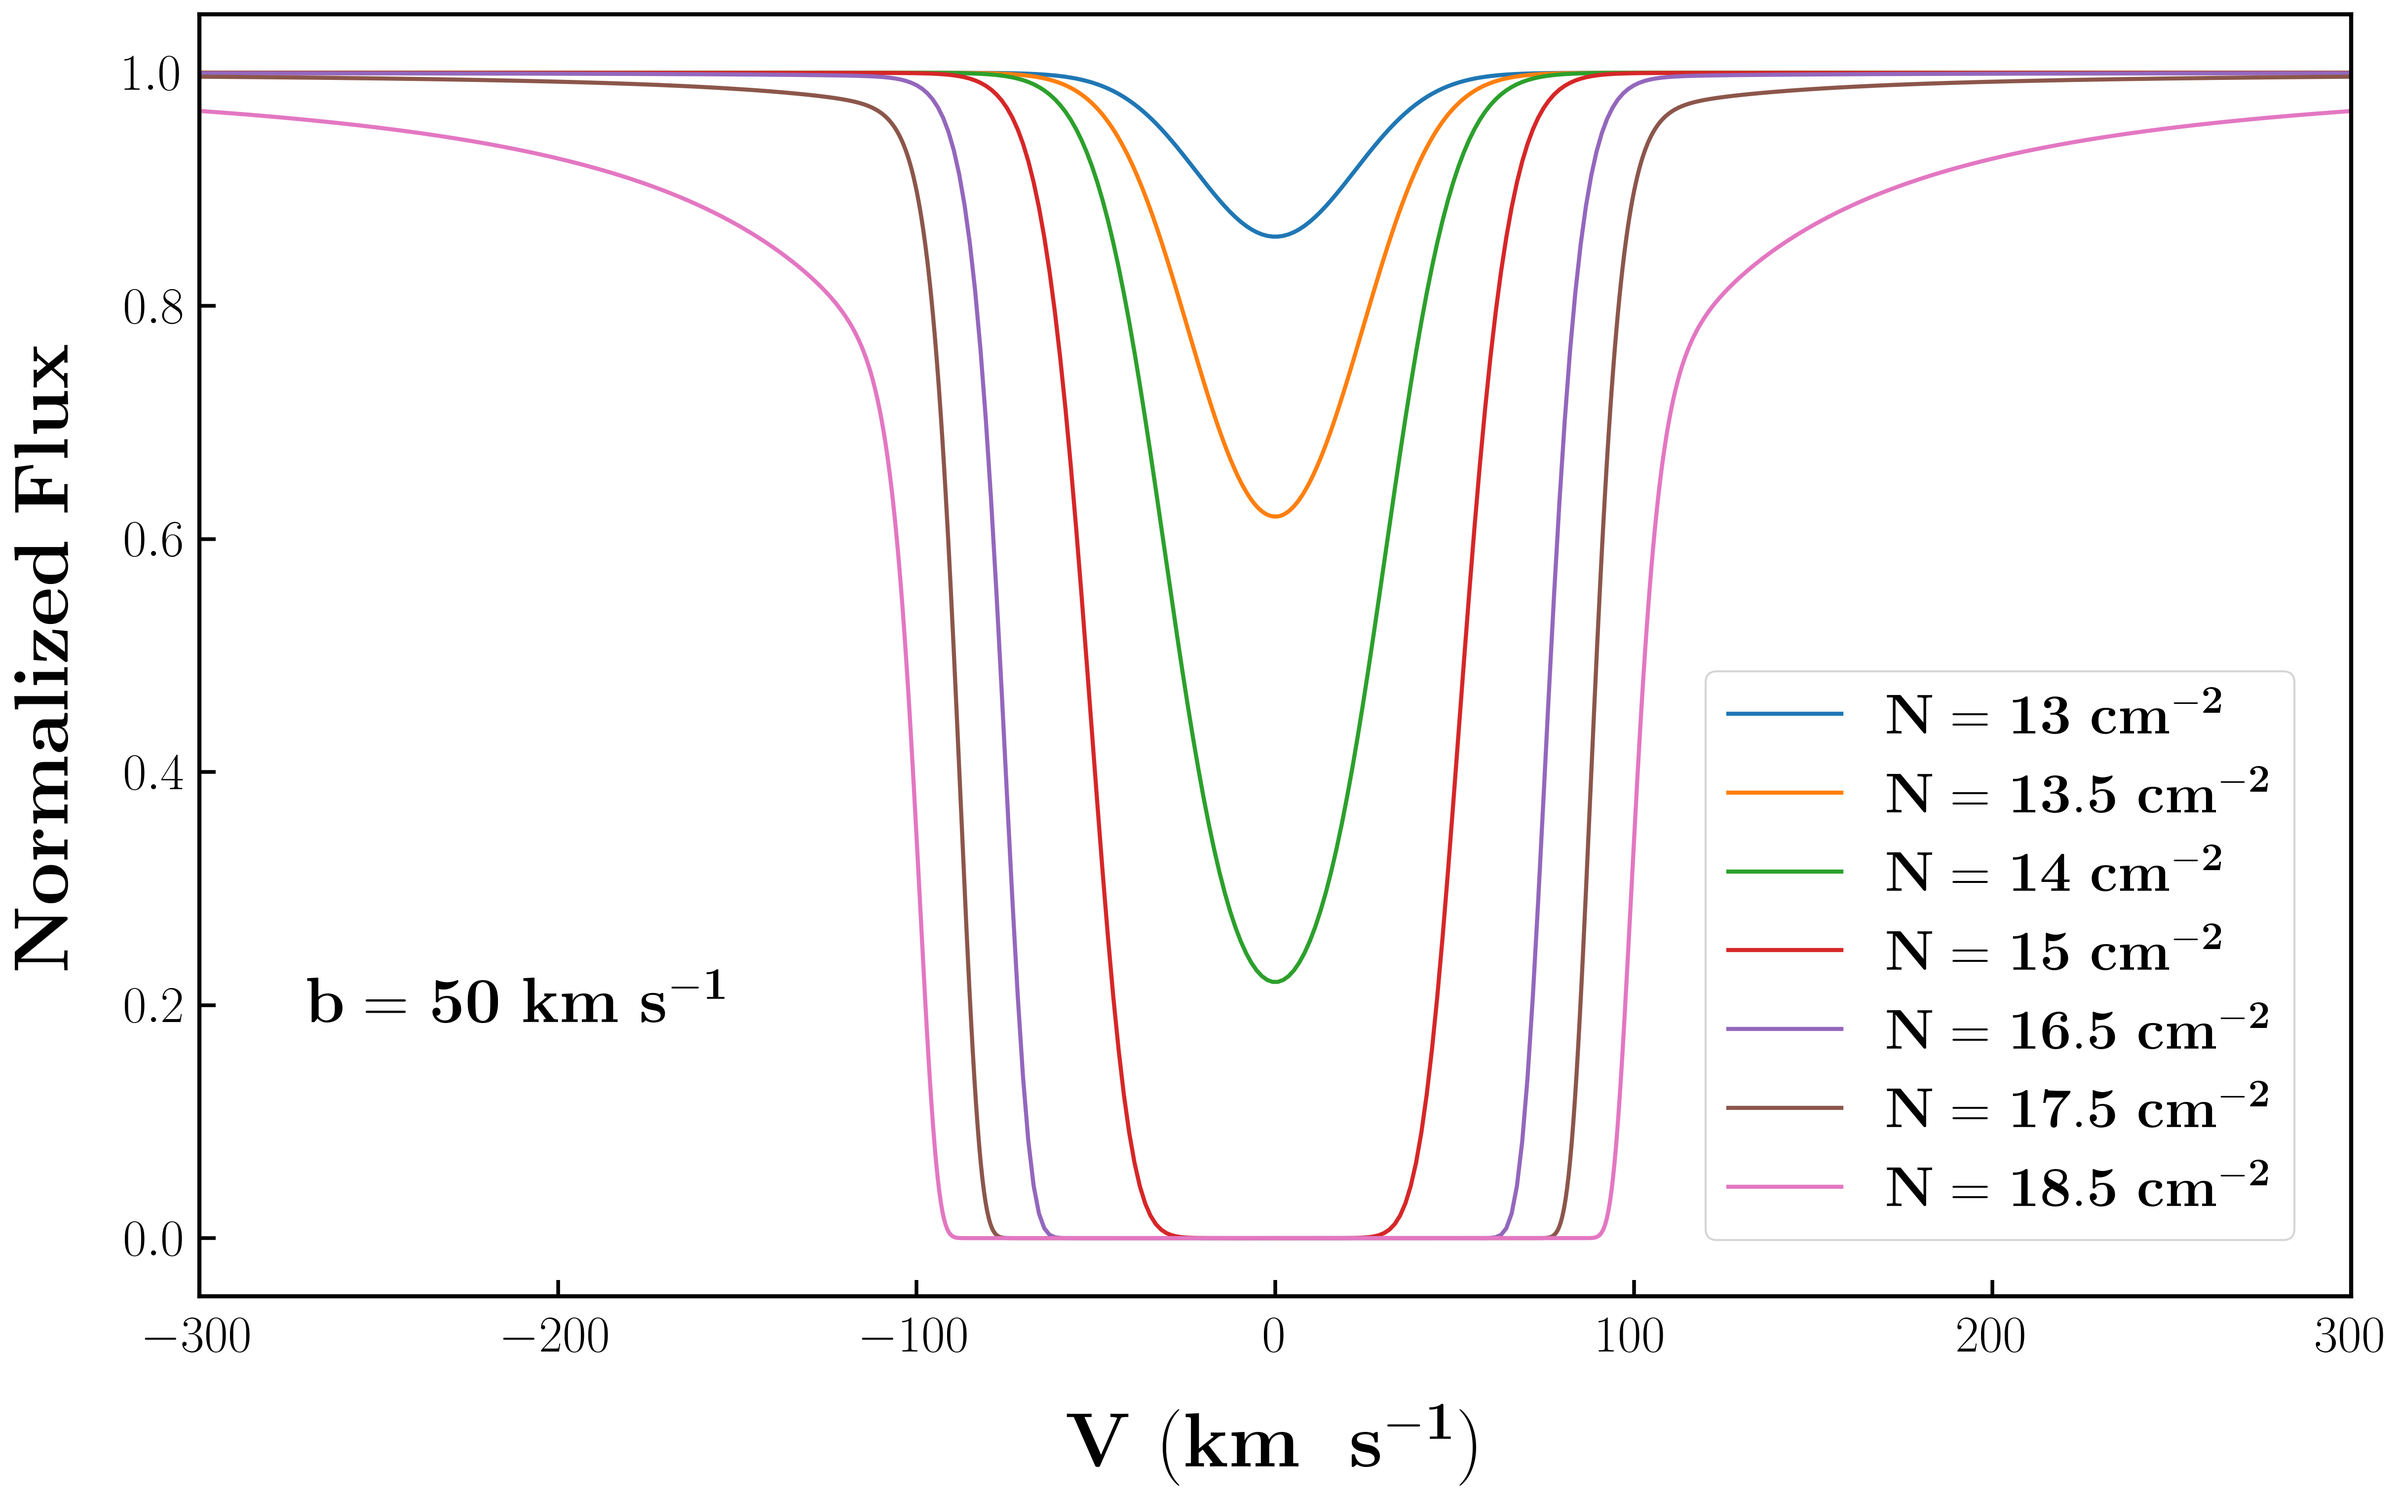
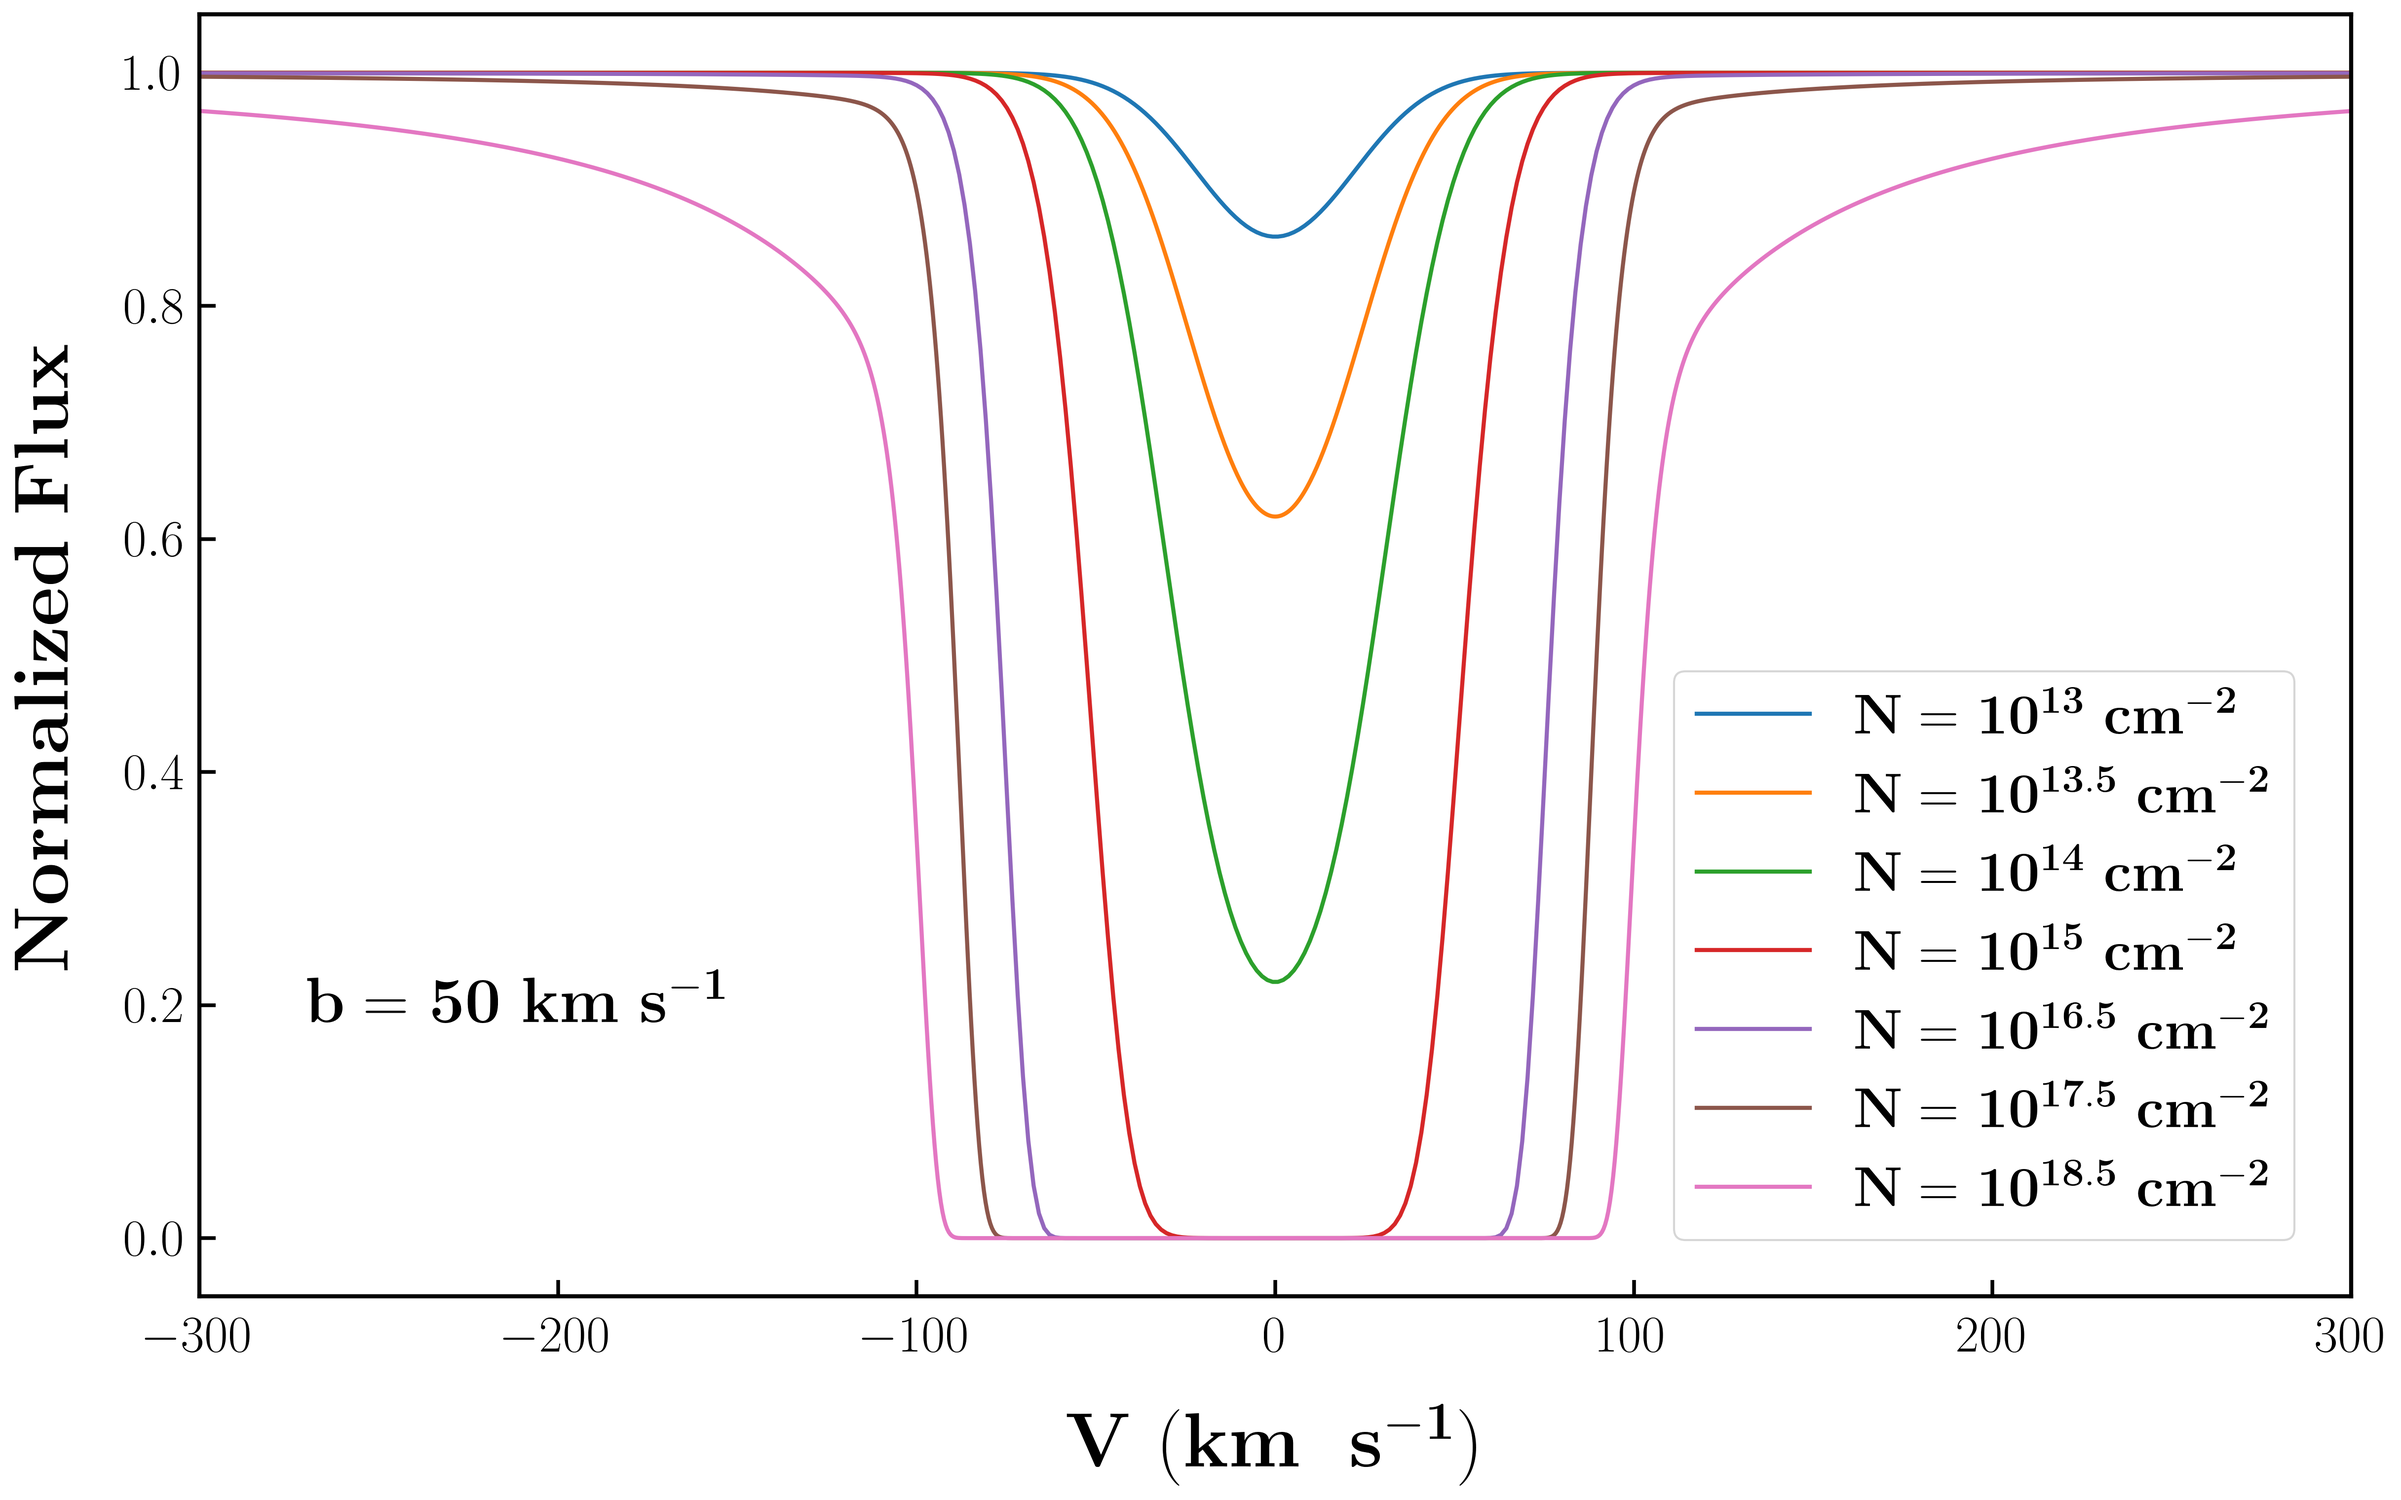
PC

Changed region(s): [[0.7498, 0.6248, 0.9061, 0.7498], [0.7498, 0.4686, 0.9373, 0.5936], [0.7811, 0.781, 0.9061, 0.8122]]

diff --git a/Python/z_rough.py b/Python/z_rough.py
@@ -5,14 +5,14 @@ import matplotlib.pyplot as plt
 from numpy import *
 from scipy.integrate import simpson
 
-files=os.listdir('Files_n_figures/sys_plots')
-files=sorted(files)
+# files=os.listdir('Files_n_figures/sys_plots')
+# files=sorted(files)
 
-for file in files:
-    file_split=file.split('_')
+# for file in files:
+#     file_split=file.split('_')
 
-    print(f'\\begin{{figure}} \n  \centering  \n  \hspace*{{-21mm}}\n    \captionsetup{{oneside,margin={{0cm,21mm}}}}\n    \includegraphics[width=\linewidth]{{Figures//system-plots/{file}}} \n  \caption{{System plot of the BLA candidate towards LOS of {file_split[0]} at $z_{{abs}}=${file_split[1][2:]}}} \n\end{{figure}}')
-    print('\n\n')
+#     print(f'\\begin{{figure}} \n  \centering  \n  \hspace*{{-21mm}}\n    \captionsetup{{oneside,margin={{0cm,21mm}}}}\n    \includegraphics[width=\linewidth]{{Figures//system-plots/{file}}} \n  \caption{{System plot of the BLA candidate towards LOS of {file_split[0]} at $z_{{abs}}=${file_split[1][2:]}}} \n\end{{figure}}')
+#     print('\n\n')
 
 # \begin{figure}
 #     \centering
@@ -22,45 +22,39 @@ for file in files:
 
 
 
-quit()
+# quit()
 
-plt.style.use('my_style.mpl')
+# plt.style.use('my_style.mpl')
 
-def ion_label(ion):
+# def ion_label(ion):
 
-    for i,s in enumerate(ion):
-        if s.isupper():
-            if i==0:
-                pass
-            else:
-                break
+#     for i,s in enumerate(ion):
+#         if s.isupper():
+#             if i==0:
+#                 pass
+#             else:
+#                 break
 
-    atom=ion[:i]
-    n=ion[i:]
+#     atom=ion[:i]
+#     n=ion[i:]
 
-    return f'{{\\fontsize{{25pt}}{{3em}}\selectfont{{}}$\mathbf{{{atom}}}$}} {{\\fontsize{{17pt}}{{3em}}\selectfont{{}}$\mathbf{{{n}}}$}}'
-
-
-total_ions=['CIII', 'NV', 'OVI', 'CIV', 'SiIV', 'SiIII', 'OVI', 'CIV', 'SiIII', 'NV', 'CIV', 'SiIV', 'NV', 'OVI', 'SiIII', 'CIII', 'OVI', 'SiIII', 'NV', 'CIV', 'SiIII', 'NV', 'CIV', 'SiIV', 'SiIII', 'CIII', 'NV', 'OVI', 'OIII', 'CIII', 'OVI', 'OIII', 'CII', 'NV', 'FeII', 'SiIII', 'AlII', 'CIV', 'SiIV', 'OI', 'SiII', 'CII*', 'NII', 'NV', 'CII', 'SiIII', 'OVI', 'CIV', 'SiIV', 'PII', 'SiII', 'CIII', 'CII', 'SiIII', 'OVI', 'SiIV', 'SiII', 'CII', 'SiII', 'OI', 'CIII', 'OVI', 'SiIII', 'CIV', 'SiIV', 'SiIII', 'CIII', 'OVI', 'OIII', 'SiIII', 'CIV', 'SiIV', 'SiIII', 'SiIV', 'OVI', 'CIV', 'SiIII', 'NII', 'CII', 'FeII', 'CIV', 'SiIV', 'OI', 'SiII', 'NII', 'NV', 'NIII', 'CIII', 'CII', 'SiIII', 'OVI', 'SiIV', 'OI', 'SiII', 'NV', 'OVI', 'SiIII', 'CIII', 'OVI', 'SiIII', 'CII', 'SiIII', 'SiII', 'CIV', 'SiIV', 'SiIII', 'CII', 'SiIII', 'SiIV', 'OVI', 'CIV', 'CIII', 'CII', 'NIII', 'SiIII', 'OVI', 'OI', 'SiII', 'CII', 'FeII', 'SiII']
+#     return f'{{\\fontsize{{25pt}}{{3em}}\selectfont{{}}$\mathbf{{{atom}}}$}} {{\\fontsize{{17pt}}{{3em}}\selectfont{{}}$\mathbf{{{n}}}$}}'
 
 
-hist_plot=plt.hist(total_ions,bins=len(set(total_ions)),rwidth=0.5,color='#a1c9f4')
-x=array([ 0 ,  0.9375,  1.875 ,  2.8125,  3.75  ,  4.6875,  5.625 , 6.5625,  7.5   ,  8.4375,  9.375 , 10.3125, 11.25  , 12.1875, 13.125 , 14.0625, 15])# ions=plt.xticks()
-ions_ticks= [  'CIII',  'NV',  'OVI',  'CIV',  'SiIV',  'SiIII',  'OIII',  'CII', 'FeII', 'AlII','OI',  'SiII', 'CII*', 'NII',  'PII', 'NIII']
-ions_ticks=[ion_label(x) for x in ions_ticks]
-plt.xticks(x[:-1]+(0.9375/2),ions_ticks)
-plt.yticks([0,4,8,12,16,20,24],fontsize=25)
-plt.xlabel(r'$\mathbf{Metal \ Ions}$',labelpad=20,fontsize=30)
-plt.ylabel(r'$\mathbf{n}$',labelpad=20,fontsize=30)
-plt.show()
-
-# a=f'{{\\fontsize{{25pt}}{{3em}}\selectfont{{}}$\mathbf{{{line_name[0]}}}$}} {{\\fontsize{{17pt}}{{3em}}\selectfont{{}}$\mathbf{{{line_name[1]}}}$}}'
+# total_ions=['CIII', 'NV', 'OVI', 'CIV', 'SiIV', 'SiIII', 'OVI', 'CIV', 'SiIII', 'NV', 'CIV', 'SiIV', 'NV', 'OVI', 'SiIII', 'CIII', 'OVI', 'SiIII', 'NV', 'CIV', 'SiIII', 'NV', 'CIV', 'SiIV', 'SiIII', 'CIII', 'NV', 'OVI', 'OIII', 'CIII', 'OVI', 'OIII', 'CII', 'NV', 'FeII', 'SiIII', 'AlII', 'CIV', 'SiIV', 'OI', 'SiII', 'CII*', 'NII', 'NV', 'CII', 'SiIII', 'OVI', 'CIV', 'SiIV', 'PII', 'SiII', 'CIII', 'CII', 'SiIII', 'OVI', 'SiIV', 'SiII', 'CII', 'SiII', 'OI', 'CIII', 'OVI', 'SiIII', 'CIV', 'SiIV', 'SiIII', 'CIII', 'OVI', 'OIII', 'SiIII', 'CIV', 'SiIV', 'SiIII', 'SiIV', 'OVI', 'CIV', 'SiIII', 'NII', 'CII', 'FeII', 'CIV', 'SiIV', 'OI', 'SiII', 'NII', 'NV', 'NIII', 'CIII', 'CII', 'SiIII', 'OVI', 'SiIV', 'OI', 'SiII', 'NV', 'OVI', 'SiIII', 'CIII', 'OVI', 'SiIII', 'CII', 'SiIII', 'SiII', 'CIV', 'SiIV', 'SiIII', 'CII', 'SiIII', 'SiIV', 'OVI', 'CIV', 'CIII', 'CII', 'NIII', 'SiIII', 'OVI', 'OI', 'SiII', 'CII', 'FeII', 'SiII']
 
 
+# hist_plot=plt.hist(total_ions,bins=len(set(total_ions)),rwidth=0.5,color='#a1c9f4')
+# x=array([ 0 ,  0.9375,  1.875 ,  2.8125,  3.75  ,  4.6875,  5.625 , 6.5625,  7.5   ,  8.4375,  9.375 , 10.3125, 11.25  , 12.1875, 13.125 , 14.0625, 15])# ions=plt.xticks()
+# ions_ticks= [  'CIII',  'NV',  'OVI',  'CIV',  'SiIV',  'SiIII',  'OIII',  'CII', 'FeII', 'AlII','OI',  'SiII', 'CII*', 'NII',  'PII', 'NIII']
+# ions_ticks=[ion_label(x) for x in ions_ticks]
+# plt.xticks(x[:-1]+(0.9375/2),ions_ticks)
+# plt.yticks([0,4,8,12,16,20,24],fontsize=25)
+# plt.xlabel(r'$\mathbf{Metal \ Ions}$',labelpad=20,fontsize=30)
+# plt.ylabel(r'$\mathbf{n}$',labelpad=20,fontsize=30)
+# plt.show()
 
-
-
-quit()
+# quit()
 
 plt.style.use('my_style.mpl')
 
@@ -71,10 +65,10 @@ N=[13,13.5,14,15,16.5,17.5,18.5]
 a=1.25
 plt.figure(figsize=(15*a,9*a),dpi=300)
 
-# for val in N:
-for val in b:
-    # file=f'voigt_mock/N_{val}.txt'
-    file=f'voigt_mock/b_{val}_1.txt'
+for val in N:
+# for val in b:
+    file=f'voigt_mock/N_{val}.txt'
+    # file=f'voigt_mock/b_{val}_1.txt'
 
     data=loadtxt(file,comments='!')
 
@@ -85,8 +79,8 @@ for val in b:
     cont=data[:,3]
     v=3*(10**5)*((wave**2-(cen_wave_obs**2))/(wave**2+(cen_wave_obs**2)))
 
-    plt.plot(v,cont,label=f'{{$\mathbf{{b=}} \ \mathbf{{{val}}} \ \mathbf{{km \ s^{{-1}}}}$}}',lw=2)
-    # plt.plot(v*(3/5),cont,label=f'{{$\mathbf{{N=}} \ \mathbf{{{val}}} \ \mathbf{{cm^{{-2}}}} $}}',lw=2)
+    # plt.plot(v,cont,label=f'{{$\mathbf{{b=}} \ \mathbf{{{val}}} \ \mathbf{{km \ s^{{-1}}}}$}}',lw=2)
+    plt.plot(v*(3/5),cont,label=f'{{$\mathbf{{N=}} \ \mathbf{{10^{{{val}}}}} \ \mathbf{{cm^{{-2}}}} $}}',lw=2)
 
     # v2=3*(10**5)*((wave_spec**2-(cen_wave_obs**2))/(wave_spec**2+(cen_wave_obs**2)))
 # \mathbf{10^{13} \ cm^{-2}}
@@ -97,9 +91,10 @@ plt.xticks(fontsize=20*a)
 plt.yticks(fontsize=20*a)
 plt.xlabel(r'$\mathbf{V} \ \mathbf{(km \ \ s^{-1})}$',labelpad=20,fontsize=30*a)
 plt.ylabel(r'$\mathbf{Normalized \ Flux} $',labelpad=20,fontsize=30*a)
-# plt.text(-270,0.185,r'$\mathbf{{b=}} \ \mathbf{{{50}}} \ \mathbf{{km \ s^{{-1}}}}$',fontsize=25*a)
-plt.text(-250,0.725,r'$\mathbf{{N=}} \ \mathbf{{10^{13}}} \ \mathbf{{cm^{{-2}}}}$',fontsize=25*a)
-plt.savefig('Voigt-b.png')
+plt.text(-270,0.185,r'$\mathbf{{b=}} \ \mathbf{{{50}}} \ \mathbf{{km \ s^{{-1}}}}$',fontsize=25*a)
+# plt.text(-250,0.725,r'$\mathbf{{N=}} \ \mathbf{{10^{13}}} \ \mathbf{{cm^{{-2}}}}$',fontsize=25*a)
+plt.savefig('Voigt-N.png')
+# plt.savefig('Voigt-b.png')
 # plt.show()
 
 
